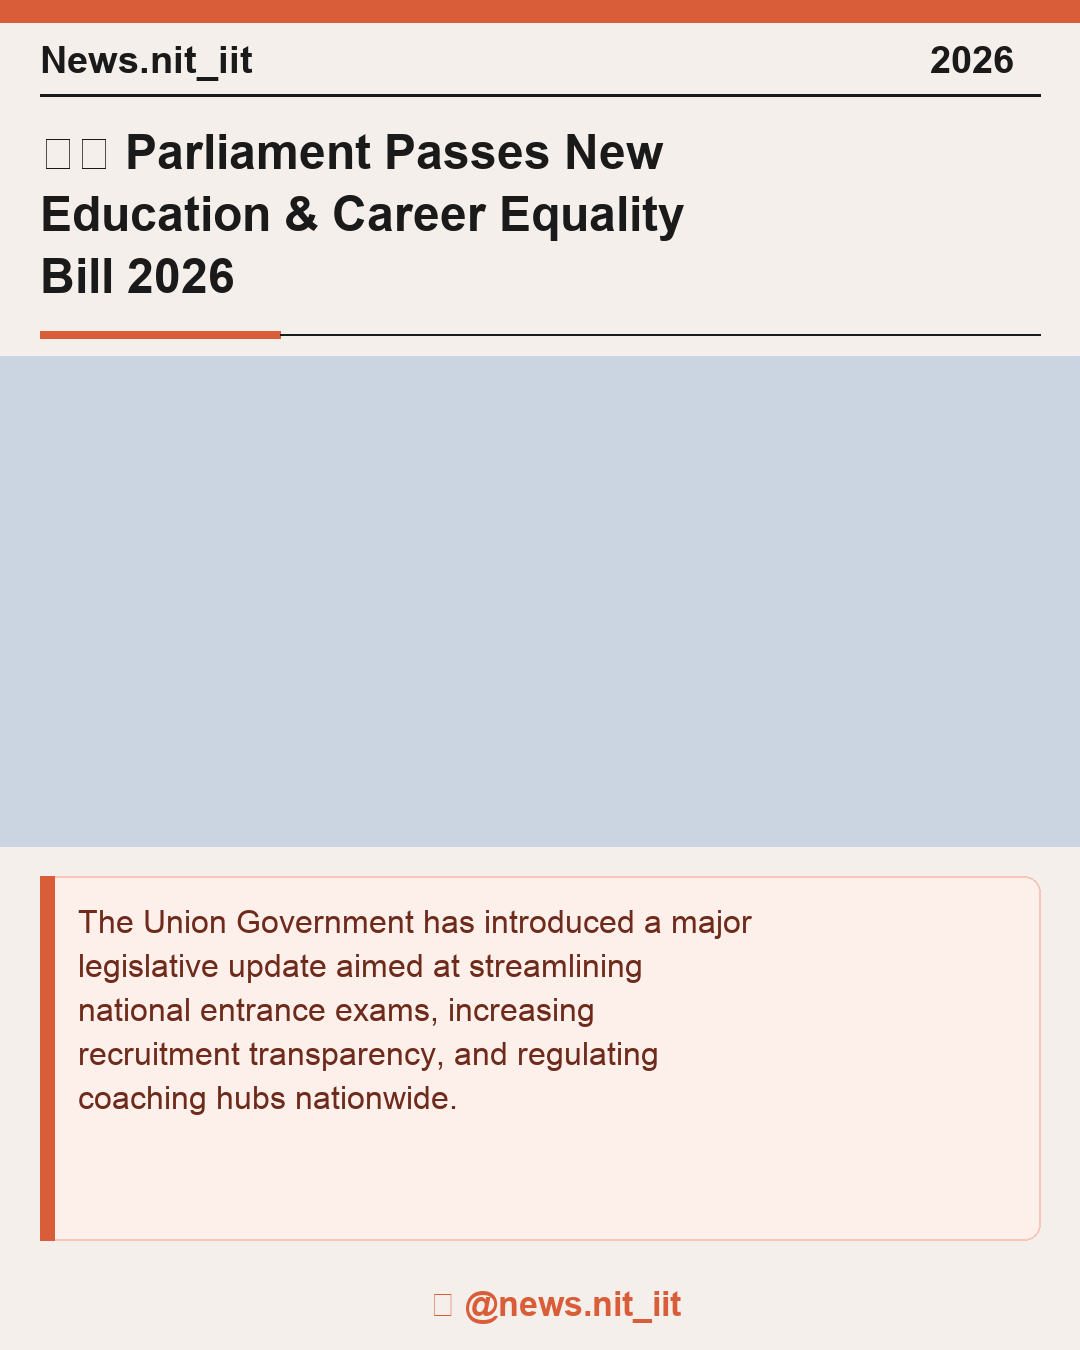
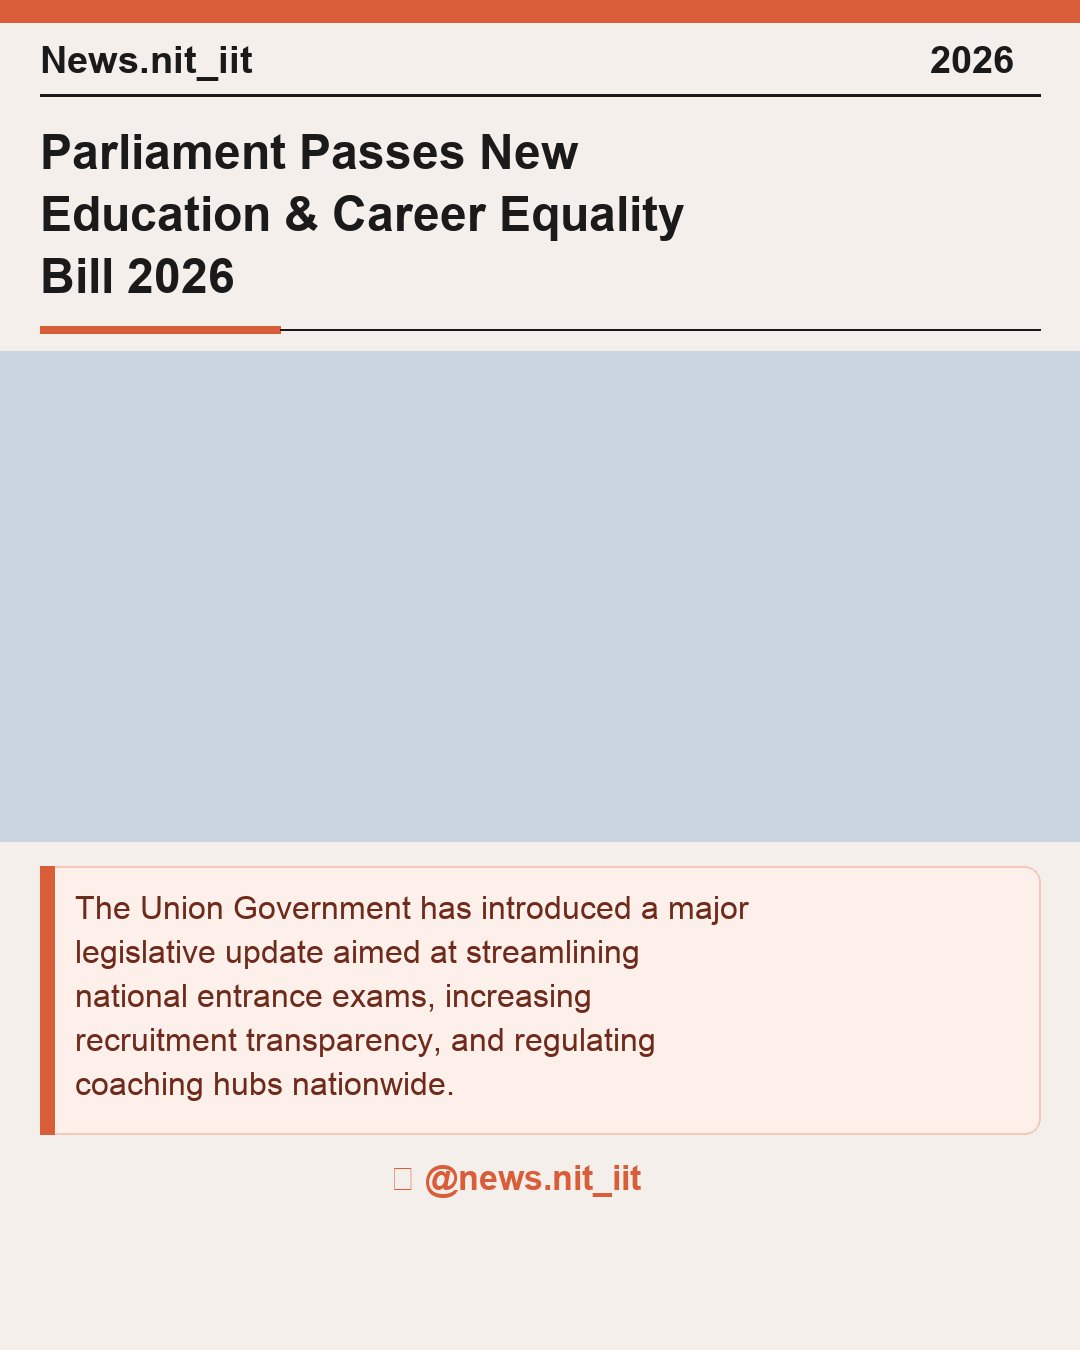
template

diff --git a/design_post.py b/design_post.py
@@ -1,11 +1,11 @@
 """
 design_post.py
-Generates 1080x1350 Instagram poster cards matching the exact News.nit_iit template:
-- Top Coral Accent Bar + Header (News.nit_iit | 2026)
-- Bold Headline with Accent Underline on top
-- Full-width image in the middle
-- Tinted Summary Box with left accent bar at bottom
-- Watermark @news.nit_iit footer
+Generates 1080x1350 Instagram poster cards matching the exact News.nit_iit template with FIXED EMOJIS:
+- 🏛 Politics & Govt
+- 📚 Student & Education
+- 🚀 Tech, Science & Innovation
+- 📩 Inbox Message (General)
+- 📸 Camera Emoji next to @news.nit_iit username
 """
 
 import os
@@ -13,16 +13,44 @@ from PIL import Image, ImageDraw, ImageFont
 
 
 BUCKET_COLORS = {
-    "IndianPolitics": {"accent": "#D95D39", "tint_bg": "#FDF0EB", "tint_border": "#F8C6B9", "text_dark": "#6E2A1A"},
-    "StudentEducation": {"accent": "#2A9D8F", "tint_bg": "#EBF7F5", "tint_border": "#B2E2DD", "text_dark": "#16524A"},
-    "TechInnovation": {"accent": "#7209B7", "tint_bg": "#F6EDFC", "tint_border": "#D8B4F3", "text_dark": "#3B0561"},
+    "IndianPolitics": {
+        "accent": "#D95D39", 
+        "tint_bg": "#FDF0EB", 
+        "tint_border": "#F8C6B9", 
+        "text_dark": "#6E2A1A", 
+        "headline_emoji": "🏛",   # Fixed Politics Emoji
+        "summary_emoji": "📌"
+    },
+    "StudentEducation": {
+        "accent": "#2A9D8F", 
+        "tint_bg": "#EBF7F5", 
+        "tint_border": "#B2E2DD", 
+        "text_dark": "#16524A", 
+        "headline_emoji": "📚",   # Fixed Education/Books Emoji
+        "summary_emoji": "📌"
+    },
+    "TechInnovation": {
+        "accent": "#7209B7", 
+        "tint_bg": "#F6EDFC", 
+        "tint_border": "#D8B4F3", 
+        "text_dark": "#3B0561", 
+        "headline_emoji": "🚀",   # Fixed Science/Tech/Rocket Emoji
+        "summary_emoji": "🔹"
+    },
 }
 
-DEFAULT_COLOR = {"accent": "#D95D39", "tint_bg": "#FDF0EB", "tint_border": "#F8C6B9", "text_dark": "#6E2A1A"}
+DEFAULT_COLOR = {
+    "accent": "#D95D39", 
+    "tint_bg": "#FDF0EB", 
+    "tint_border": "#F8C6B9", 
+    "text_dark": "#6E2A1A", 
+    "headline_emoji": "📩",       # Fixed Inbox Message Emoji for General News
+    "summary_emoji": "📌"
+}
 
 
 def get_font(font_type="bold", size=36):
-    """Robust font loader working across macOS, Linux (GitHub Actions), and Windows."""
+    """Loads text font for macOS, Linux, or Windows."""
     paths_to_try = []
     if font_type == "bold":
         paths_to_try = [
@@ -47,30 +75,62 @@ def get_font(font_type="bold", size=36):
         except Exception:
             continue
 
-    # Fallback for newer Pillow versions with size parameter
     try:
         return ImageFont.load_default(size=size)
     except TypeError:
         return ImageFont.load_default()
 
 
-def create_card(headline, summary, image_path, bucket="StudentEducation", language="en", emoji="📩", output_path="output/card.png"):
+def get_emoji_font(size=42):
+    """Loads Apple Color Emoji on Mac (with index=0) or Noto Color Emoji on Linux."""
+    emoji_configs = [
+        ("/System/Library/Fonts/Apple Color Emoji.ttc", 0),
+        ("/System/Library/Fonts/Apple Color Emoji.ttf", 0),
+        ("/Library/Fonts/Apple Color Emoji.ttc", 0),
+        ("/usr/share/fonts/truetype/noto/NotoColorEmoji.ttf", 0),
+    ]
+    for path, idx in emoji_configs:
+        try:
+            return ImageFont.truetype(path, size, index=idx)
+        except Exception:
+            try:
+                return ImageFont.truetype(path, size)
+            except Exception:
+                continue
+    return None
+
+
+def draw_color_emoji(draw, x, y, emoji_char, font_emoji):
+    """Draws a color emoji glyph cleanly."""
+    if emoji_char and font_emoji:
+        try:
+            draw.text((x, y - 2), emoji_char, font=font_emoji, embedded_color=True)
+            return True
+        except Exception:
+            pass
+    return False
+
+
+def create_card(headline, summary, image_path, bucket="StudentEducation", language="en", emoji=None, output_path="output/card.png"):
     """
-    Renders the exact News.nit_iit template layout (1080x1350).
+    Renders the exact News.nit_iit template layout with Fixed Category Emojis (1080x1350).
     """
     theme = BUCKET_COLORS.get(bucket, DEFAULT_COLOR)
     accent_color = theme["accent"]
+    head_emoji = emoji or theme["headline_emoji"]
+    sum_emoji = theme["summary_emoji"]
 
     width, height = 1080, 1350
     bg_color = "#F5EFEB"  # Off-white / Cream background
     card = Image.new("RGB", (width, height), bg_color)
     draw = ImageDraw.Draw(card)
 
-    # Load High-Res Fonts
+    # Load Fonts
     font_header = get_font("bold", 38)
     font_headline = get_font("bold", 48)
     font_summary = get_font("regular", 32)
     font_footer = get_font("bold", 34)
+    font_emoji = get_emoji_font(44)
 
     # 1. Top Accent Stripe
     draw.rectangle([(0, 0), (width, 22)], fill=accent_color)
@@ -80,16 +140,19 @@ def create_card(headline, summary, image_path, bucket="StudentEducation", langua
     draw.text((930, 38), "2026", fill="#1A1A1A", font=font_header)
     draw.line([(40, 95), (1040, 95)], fill="#1A1A1A", width=3)
 
-    # 3. Headline Text (Top Section)
+    # 3. Headline Section with Fixed Category Emoji (🏛 / 📚 / 🚀 / 📩)
     y_cursor = 125
-    formatted_headline = f"{emoji} {headline}"
 
-    # Wrap Headline
-    words = formatted_headline.split()
+    # Draw Fixed Category Emoji before Headline
+    has_emoji = draw_color_emoji(draw, 40, y_cursor, head_emoji, font_emoji)
+    headline_x = 98 if has_emoji else 40
+
+    # Wrap Headline Text cleanly
+    words = headline.strip().split()
     headline_lines = []
     cur_line = ""
     for w in words:
-        if len(cur_line + " " + w) < 32:
+        if len(cur_line + " " + w) < 28:
             cur_line += " " + w if cur_line else w
         else:
             headline_lines.append(cur_line)
@@ -97,12 +160,13 @@ def create_card(headline, summary, image_path, bucket="StudentEducation", langua
     if cur_line:
         headline_lines.append(cur_line)
 
-    for line in headline_lines[:3]:
-        draw.text((40, y_cursor), line, fill="#1A1A1A", font=font_headline)
+    for i, line in enumerate(headline_lines[:3]):
+        draw_x = headline_x if i == 0 else 40
+        draw.text((draw_x, y_cursor), line, fill="#1A1A1A", font=font_headline)
         y_cursor += 62
 
     # Accent Underline
-    y_cursor += 20
+    y_cursor += 15
     draw.rectangle([(40, y_cursor), (280, y_cursor + 7)], fill=accent_color)
     draw.line([(280, y_cursor + 3), (1040, y_cursor + 3)], fill="#1A1A1A", width=2)
 
@@ -118,25 +182,14 @@ def create_card(headline, summary, image_path, bucket="StudentEducation", langua
             print(f"Error placing image: {e}")
             draw.rectangle([(0, image_top), (1080, image_top + image_height)], fill="#CBD5E1")
     else:
-        # Placeholder background if no image
         draw.rectangle([(0, image_top), (1080, image_top + image_height)], fill="#CBD5E1")
 
-    # 5. Summary Box Section (Bottom)
-    box_top = image_top + image_height + 30
-    box_bottom = 1240
-    box_left, box_right = 40, 1040
-
-    # Draw Tinted Summary Box
-    draw.rounded_rectangle([(box_left, box_top), (box_right, box_bottom)], radius=16, fill=theme["tint_bg"], outline=theme["tint_border"], width=2)
-    # Draw Left Vertical Accent Bar
-    draw.rectangle([(box_left, box_top), (box_left + 14, box_bottom)], fill=accent_color)
-
-    # Wrap Summary Text
-    sum_words = summary.split()
+    # 5. DYNAMIC Summary Box Section
+    sum_words = summary.strip().split()
     sum_lines = []
     cur_sum = ""
     for w in sum_words:
-        if len(cur_sum + " " + w) < 46:
+        if len(cur_sum + " " + w) < 44:
             cur_sum += " " + w if cur_sum else w
         else:
             sum_lines.append(cur_sum)
@@ -144,13 +197,37 @@ def create_card(headline, summary, image_path, bucket="StudentEducation", langua
     if cur_sum:
         sum_lines.append(cur_sum)
 
-    sum_y = box_top + 28
-    for line in sum_lines[:5]:
-        draw.text((78, sum_y), line, fill=theme["text_dark"], font=font_summary)
-        sum_y += 44
+    display_lines = sum_lines[:5]
+    line_height = 44
+    box_top = image_top + image_height + 25
+    
+    box_padding_vertical = 24
+    content_height = (len(display_lines) * line_height) + (box_padding_vertical * 2)
+    box_bottom = min(1250, box_top + content_height)
+    box_left, box_right = 40, 1040
 
-    # 6. Footer Watermark
-    draw.text((430, 1285), "📸 @news.nit_iit", fill=accent_color, font=font_footer)
+    # Draw Dynamic Summary Box
+    draw.rounded_rectangle([(box_left, box_top), (box_right, box_bottom)], radius=16, fill=theme["tint_bg"], outline=theme["tint_border"], width=2)
+    draw.rectangle([(box_left, box_top), (box_left + 14, box_bottom)], fill=accent_color)
+
+    # Draw Summary Lines inside box
+    sum_y = box_top + box_padding_vertical
+    has_sum_emoji = draw_color_emoji(draw, 75, sum_y, sum_emoji, font_emoji)
+    sum_text_x = 125 if has_sum_emoji else 75
+
+    for i, line in enumerate(display_lines):
+        draw_x = sum_text_x if i == 0 else 75
+        draw.text((draw_x, sum_y), line, fill=theme["text_dark"], font=font_summary)
+        sum_y += line_height
+
+    # 6. Fixed Camera Emoji 📸 next to @news.nit_iit Username Footer
+    footer_y = min(1285, box_bottom + 25)
+    has_cam = draw_color_emoji(draw, 390, footer_y, "📸", font_emoji)
+    if has_cam:
+        draw.text((445, footer_y), "@news.nit_iit", fill=accent_color, font=font_footer)
+    else:
+        # Fallback text if emoji font fails
+        draw.text((390, footer_y), "📸 @news.nit_iit", fill=accent_color, font=font_footer)
 
     os.makedirs(os.path.dirname(output_path), exist_ok=True)
     card.save(output_path)

diff --git a/test_poster.py b/test_poster.py
@@ -1,6 +1,7 @@
 """
 test_poster.py
-Generates sample poster cards locally without calling any APIs or using secrets.
+Generates 3 sample poster cards matching the exact News.nit_iit template layout
+with fixed emojis (📚, 🏛, 🚀, 📌, 📸).
 
 Run: python test_poster.py
 """
@@ -13,36 +14,33 @@ os.makedirs("output/cards", exist_ok=True)
 
 print("🎨 Generating 3 sample poster cards locally...")
 
-# Sample 1: Indian Politics & Govt (Red Accent)
+# Sample 1: Student & Education (Emerald Green Theme with 📚 Books Emoji)
+design_post.create_card(
+    headline="India Unveils Bold New Education Scheme for Colleges",
+    summary="The government announced a fresh push to modernize higher education, focusing on skill-based learning and better funding for state colleges across the country.",
+    image_path=None,
+    bucket="StudentEducation",
+    language="en",
+    output_path="output/cards/test_student.png"
+)
+
+# Sample 2: Indian Politics & Govt (Saffron Red Theme with 🏛 Capitol Emoji)
 design_post.create_card(
     headline="Parliament Passes New Education & Career Equality Bill 2026",
     summary="The Union Government has introduced a major legislative update aimed at streamlining national entrance exams, increasing recruitment transparency, and regulating coaching hubs nationwide.",
     image_path=None,
     bucket="IndianPolitics",
     language="en",
-    emoji="🏛",
     output_path="output/cards/test_politics.png"
 )
 
-# Sample 2: Student & Exams (Green Accent)
-design_post.create_card(
-    headline="UPSC & SSC Announce Combined Recruitment for 50,000+ Vacancies",
-    summary="Official notification released for engineering and general graduate aspirants. The application portal opens tomorrow with revised age relaxation guidelines for technical candidates.",
-    image_path=None,
-    bucket="StudentEducation",
-    language="en",
-    emoji="🎓",
-    output_path="output/cards/test_student.png"
-)
-
-# Sample 3: Tech & Innovation (Purple Accent)
+# Sample 3: Tech & Innovation (Electric Purple Theme with 🚀 Rocket Emoji)
 design_post.create_card(
     headline="ISRO Successfully Launches Next-Gen AI Satellite Into Orbit",
     summary="India's space agency marks another historic milestone with the successful deployment of high-resolution Earth imaging technology built in collaboration with top IIT research labs.",
     image_path=None,
     bucket="TechInnovation",
     language="en",
-    emoji="🚀",
     output_path="output/cards/test_tech.png"
 )
 
